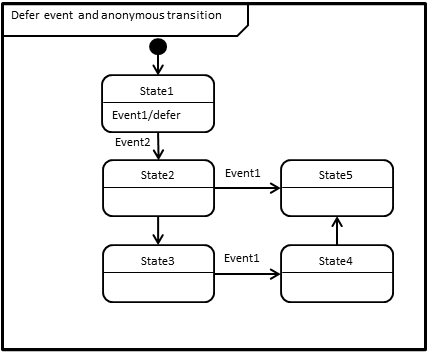
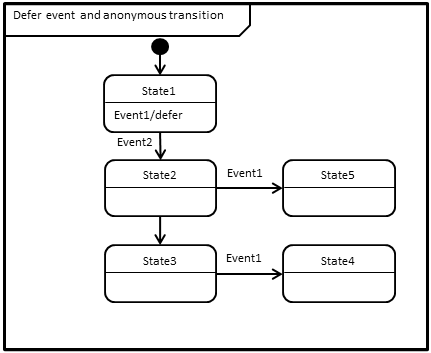
Add anonymous transition and deferred events.

diff --git a/boost_training/msm/34_DeferMultipleEvent2.cpp b/boost_training/msm/34_DeferMultipleEvent2.cpp
@@ -72,7 +72,7 @@ namespace {
             msmf::Row < State1, Event2,     State2,     msmf::none,  msmf::none >,
             msmf::Row < State2, msmf::none, State3,     msmf::none,  msmf::none >,
             msmf::Row < State3, Event1,     State4,     msmf::none,  msmf::none >,
-            msmf::Row < State4, Event1,     State5,     msmf::none,  msmf::none >
+            msmf::Row < State2, Event1,     State5,     msmf::none,  msmf::none >
         > {};
     };
 
@@ -98,3 +98,9 @@ int main()
 
 // Output:
 //
+// State1::on_entry()
+// > Send Event1
+// > Send Event2
+// State2::on_entry()
+// State3::on_entry()
+// State4::on_entry()
